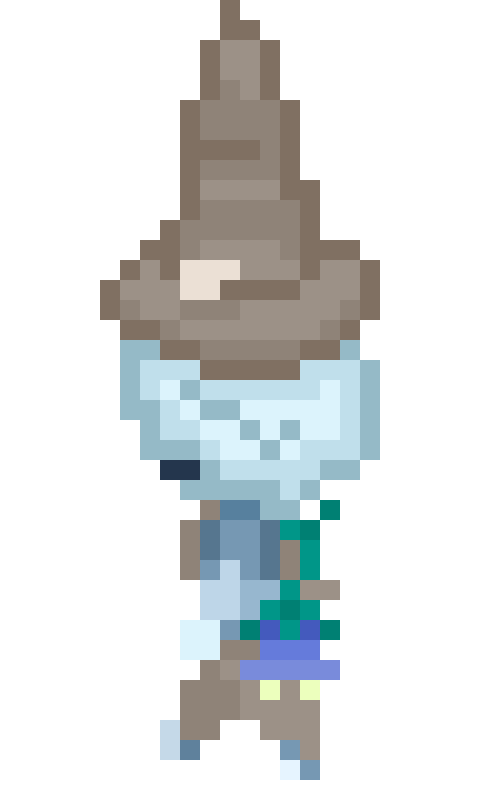
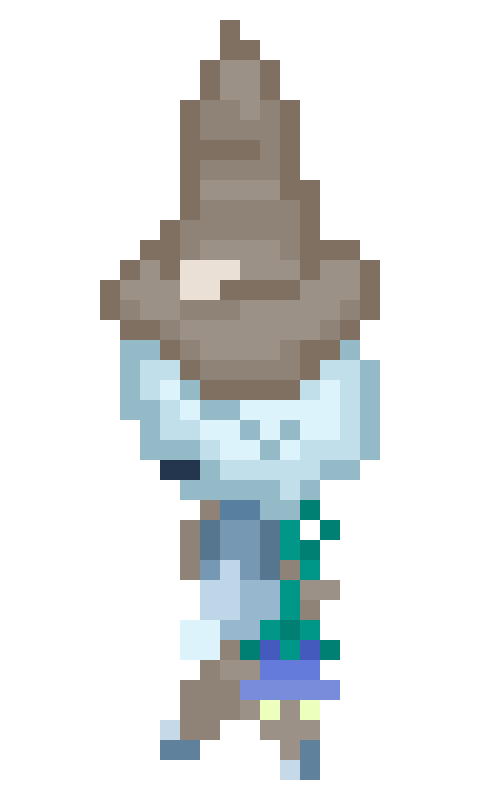
Made the walking animation clearer, Made it so when the player turns they keep facing the direction they stopped in, Added the houses, and changed the paths/grass to dither away

diff --git a/src/project.py b/src/project.py
@@ -2,57 +2,118 @@ import random
 import pygame
 import pygame.freetype
 
+class Houseroof():
+    def __init__(self, roof, x, y):
+        self.roof = roof
+        self.width = self.roof.get_width()
+        self.height = self.roof.get_height()
+        self.roof = pygame.transform.scale(self.roof, (self.width/2.5, self.height/2.5))
+        self.x = x
+        self.y = y
+    def update(self, direction):
+        if direction == "w":
+            self.y += 16
+        elif direction == "a":
+            self.x += 16
+        elif direction == "s":
+            self.y -= 16
+        elif direction == "d":
+            self.x -= 16
+        else:
+            pass
+
+    def draw(self, surface):
+        surface.blit(self.roof, (self.x, self.y))
+
+class Housebase():
+    def __init__(self, base, x, y):
+        self.base = base
+        self.width = self.base.get_width()
+        self.height = self.base.get_height()
+        self.base = pygame.transform.scale(self.base, (self.width/2.5, self.height/2.5))
+        self.x = x
+        self.y = y
+    
+    def update(self, direction):
+        if direction == "w":
+            self.y += 16
+        elif direction == "a":
+            self.x += 16
+        elif direction == "s":
+            self.y -= 16
+        elif direction == "d":
+            self.x -= 16
+        else:
+            pass
+    def draw(self, surface):
+        surface.blit(self.base, (self.x, self.y))
+
 class Paths():
     def __init__(self):
         self.background = pygame.image.load('images\\village\\pathsgrass.png')
-        width = self.background.get_width()
-        height = self.background.get_height()
-        self.background = pygame.transform.scale(self.background, (width/2.5, height/2.5))
-        self.x = -200
+        self.width = self.background.get_width()
+        self.height = self.background.get_height()
+        self.background = pygame.transform.scale(self.background, (self.width/2.5, self.height/2.5))
+        self.x = -285
         self.y = -1950
 
     def update(self, direction):
         if direction == "w":
-            self.y += 20
+            self.y += 16
         elif direction == "a":
-            self.x += 20
+            self.x += 16
         elif direction == "s":
-            self.y -= 20
+            self.y -= 16
         elif direction == "d":
-            self.x -= 20
+            self.x -= 16
         else:
             pass
+
     def draw(self, surface):
         surface.blit(self.background, (self.x, self.y))
 
 class Player():
 
     def __init__(self):
-        self.sprite = pygame.image.load('images\player\gloop.png')
+        self.sprite = pygame.image.load('images\\player\\gloopss.png')
     
-    def update(self, direction, walking):
+    def update(self, direction, lastkey, walking):
         if direction == "w":
-            if walking >= 13:
-                self.sprite = pygame.image.load('images\player\\back1.png')
+            if walking >= 7 and walking <=12:
+                self.sprite = pygame.image.load('images\\player\\back1.png')
+            elif walking >= 19:
+                self.sprite = pygame.image.load('images\\player\\back2.png')
             else:
-                self.sprite = pygame.image.load('images\player\\back2.png')
+                self.sprite = pygame.image.load('images\\player\\gloopws.png')
         elif direction == "a":
-            if walking >= 13:
-                self.sprite = pygame.image.load('images\player\left1.png')
+            if walking >= 7 and walking <=12:
+                self.sprite = pygame.image.load('images\\player\\left1.png')
+            elif walking >= 19:
+                self.sprite = pygame.image.load('images\\player\\left2.png')
             else:
-                self.sprite = pygame.image.load('images\player\left2.png')
+                self.sprite = pygame.image.load('images\\player\\gloopas.png')
         elif direction == "s":
-            if walking >= 13:
-                self.sprite = pygame.image.load('images\player\\walk1.png')
+            if walking >= 7 and walking <=12:
+                self.sprite = pygame.image.load('images\\player\\walk1.png')
+            elif walking >= 19:
+                self.sprite = pygame.image.load('images\\player\\walk2.png')
             else:
-                self.sprite = pygame.image.load('images\player\\walk2.png')
+                self.sprite = pygame.image.load('images\\player\\gloopss.png')
         elif direction == "d":
-            if walking >= 13:
-                self.sprite = pygame.image.load('images\player\\right1.png')
+            if walking >= 7 and walking <=12:
+                self.sprite = pygame.image.load('images\\player\\right1.png')
+            elif walking >= 19:
+                self.sprite = pygame.image.load('images\\player\\right2.png')
             else:
-                self.sprite = pygame.image.load('images\player\\right2.png')
+                self.sprite = pygame.image.load('images\\player\\gloopds.png')
+        elif lastkey == "w":
+            self.sprite = pygame.image.load('images\\player\\gloopws.png')
+        elif lastkey == "a":
+            self.sprite = pygame.image.load('images\\player\\gloopas.png')
+        elif lastkey == "d":
+            self.sprite = pygame.image.load('images\\player\\gloopds.png')
         else:
-            self.sprite = pygame.image.load('images\player\gloop.png')
+            self.sprite = pygame.image.load('images\\player\\gloopss.png')
         width = self.sprite.get_width()
         height = self.sprite.get_height()
         self.sprite = pygame.transform.scale(self.sprite, (width/2.2, height/2.2))
@@ -71,6 +132,14 @@ def main():
     player = Player()
     background = Paths()
     keydown = ""
+    lastkey = ""
+    house1base = Housebase(pygame.image.load('images\\village\\house1door.png'), 107, -158)
+    house2base = Housebase(pygame.image.load('images\\village\\house2door.png'), 1307, -158)
+    house3base = Housebase(pygame.image.load('images\\village\\house1door.png'), 2155, -150)
+    house1roof = Houseroof(pygame.image.load('images\\village\\house1roof.png'), 83, -366)
+    house2roof = Houseroof(pygame.image.load('images\\village\\house2roof.png'), 1267, -366)
+    house3roof = Houseroof(pygame.image.load('images\\village\\house1roof.png'), 2131, -358)
+    black = (0,0,0)
     walking = 0
     start_music()
     running = True
@@ -90,22 +159,39 @@ def main():
         keydown=""
         if pressed[pygame.K_w]:
             keydown = "w"
+            lastkey = "w"
         elif pressed[pygame.K_a]:
             keydown = "a"
+            lastkey = "a"
         elif pressed[pygame.K_s]:
             keydown = "s"
+            lastkey = "s"
         elif pressed[pygame.K_d]:
             keydown = "d"
+            lastkey = "d"
         # Game Logic
         walking += 1
         if walking >= 25:
             walking = 0
         displayInfo = pygame.display.Info()
         background.update(keydown)
-        player.update(keydown, walking)
+        house1base.update(keydown)
+        house2base.update(keydown)
+        house3base.update(keydown)
+        player.update(keydown, lastkey, walking)
+        house1roof.update(keydown)
+        house2roof.update(keydown)
+        house3roof.update(keydown)
         # Render and Display
+        screen.fill(black)
         background.draw(screen)
+        house1base.draw(screen)
+        house2base.draw(screen)
+        house3base.draw(screen)
         player.draw(screen, displayInfo)
+        house1roof.draw(screen)
+        house2roof.draw(screen)
+        house3roof.draw(screen)
         pygame.display.flip()
         dt = clock.tick(24)
     pygame.mixer.music.unload()
